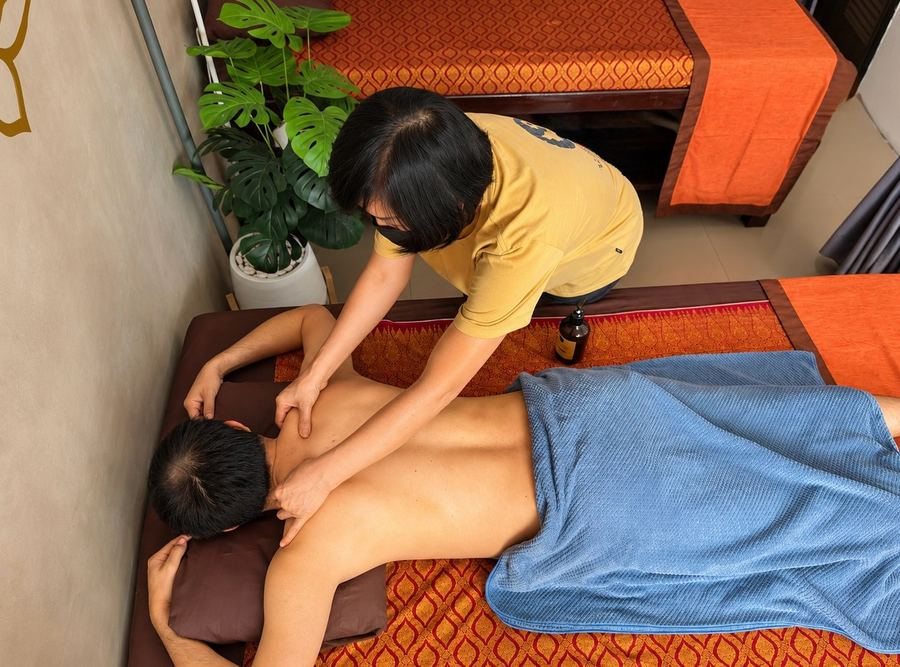
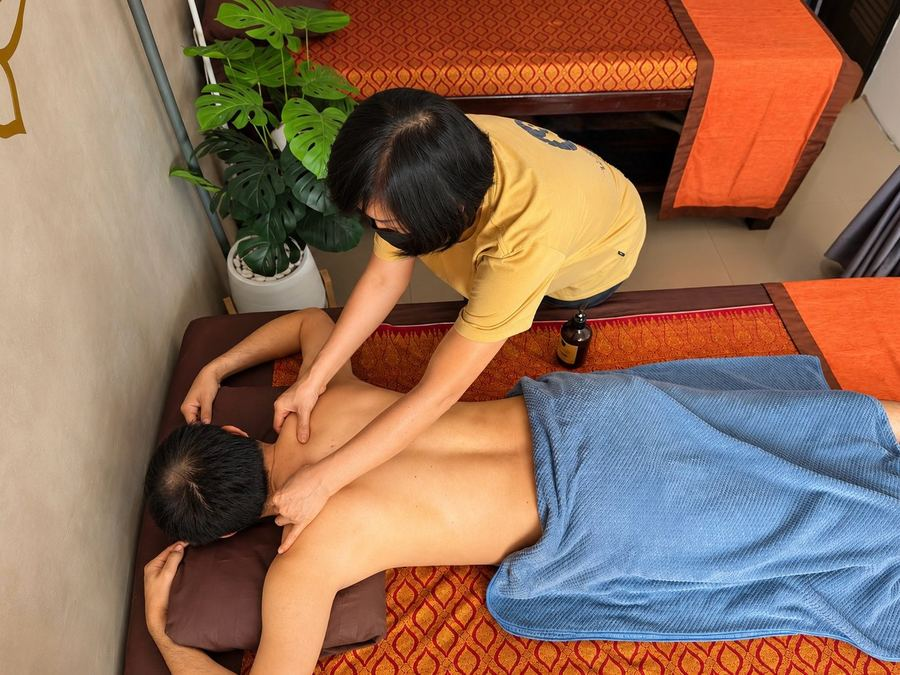
Deep tissue card: owner photo gallery; equal 4:3 photos
Add 3 owner photos to the deep tissue card and page (illustration
deleted). Crop these and the aromatherapy photos to exactly 4:3 so every
slide fills the frame at the same size.

diff --git a/index.html b/index.html
@@ -829,8 +829,15 @@ footer a{color:var(--brown)}
           </div>
         </article>
         <article class="item service-card" id="deep-tissue" aria-labelledby="deep-tissue-title">
-          <div class="service-visual">
-            <img src="img/services/deep-tissue.svg" alt="ภาพประกอบนวดเน้นเฉพาะจุด" width="720" height="440" loading="lazy" decoding="async">
+          <div class="service-visual service-gallery" data-service-gallery>
+            <div class="service-gallery-track" tabindex="0" role="region" aria-roledescription="carousel" aria-label="รูปนวดเน้นเฉพาะจุดที่ร้านนวลบุษยา ปัดหรือกดลูกศรเพื่อดูรูปถัดไป">
+              <figure class="service-gallery-slide" aria-label="รูปที่ 1 จาก 3"><img src="img/deep-tissue/deep-tissue-1.jpg" alt="หมอนวดกดจุดบริเวณสะบักและไหล่ให้ลูกค้าที่นอนคว่ำบนเบาะนวด" width="900" height="675" loading="lazy" decoding="async"></figure>
+              <figure class="service-gallery-slide" aria-label="รูปที่ 2 จาก 3"><img src="img/deep-tissue/deep-tissue-2.jpg" alt="หมอนวดกดจุดบริเวณหลังและเอวให้ลูกค้าที่นอนคว่ำห่มผ้าขนหนู" width="900" height="675" loading="lazy" decoding="async"></figure>
+              <figure class="service-gallery-slide" aria-label="รูปที่ 3 จาก 3"><img src="img/deep-tissue/deep-tissue-3.jpg" alt="หมอนวดกดจุดบริเวณบ่าให้ลูกค้าที่นอนคว่ำบนเตียงนวด" width="900" height="675" loading="lazy" decoding="async"></figure>
+            </div>
+            <button class="service-gallery-btn service-gallery-prev" type="button" aria-label="รูปก่อนหน้า" hidden><svg viewBox="0 0 24 24" aria-hidden="true" focusable="false" fill="none" stroke="currentColor" stroke-width="2"><path d="m15 6-6 6 6 6"/></svg></button>
+            <button class="service-gallery-btn service-gallery-next" type="button" aria-label="รูปถัดไป" hidden><svg viewBox="0 0 24 24" aria-hidden="true" focusable="false" fill="none" stroke="currentColor" stroke-width="2"><path d="m9 6 6 6-6 6"/></svg></button>
+            <span class="service-gallery-count" aria-hidden="true">1 / 3</span>
             <span class="service-number" aria-hidden="true">04</span>
           </div>
           <div class="service-content">
@@ -891,8 +898,8 @@ footer a{color:var(--brown)}
         <article class="item service-card" id="aromatherapy" aria-labelledby="aromatherapy-title">
           <div class="service-visual service-gallery" data-service-gallery>
             <div class="service-gallery-track" tabindex="0" role="region" aria-roledescription="carousel" aria-label="รูปนวดอโรม่าที่ร้านนวลบุษยา ปัดหรือกดลูกศรเพื่อดูรูปถัดไป">
-              <figure class="service-gallery-slide" aria-label="รูปที่ 1 จาก 3"><img src="img/aromatherapy/aromatherapy-1.jpg" alt="หมอนวดนวดบ่าและหลังด้วยน้ำมันอโรม่าให้ลูกค้าที่นอนคว่ำบนเบาะนวด" width="900" height="667" loading="lazy" decoding="async"></figure>
-              <figure class="service-gallery-slide" aria-label="รูปที่ 2 จาก 3"><img src="img/aromatherapy/aromatherapy-2.jpg" alt="หมอนวดนวดน่องด้วยน้ำมันอโรม่า ลูกค้านอนคว่ำห่มผ้าขนหนู" width="900" height="648" loading="lazy" decoding="async"></figure>
+              <figure class="service-gallery-slide" aria-label="รูปที่ 1 จาก 3"><img src="img/aromatherapy/aromatherapy-1.jpg" alt="หมอนวดนวดบ่าและหลังด้วยน้ำมันอโรม่าให้ลูกค้าที่นอนคว่ำบนเบาะนวด" width="900" height="675" loading="lazy" decoding="async"></figure>
+              <figure class="service-gallery-slide" aria-label="รูปที่ 2 จาก 3"><img src="img/aromatherapy/aromatherapy-2.jpg" alt="หมอนวดนวดน่องด้วยน้ำมันอโรม่า ลูกค้านอนคว่ำห่มผ้าขนหนู" width="900" height="675" loading="lazy" decoding="async"></figure>
               <figure class="service-gallery-slide" aria-label="รูปที่ 3 จาก 3"><img src="img/aromatherapy/aromatherapy-3.jpg" alt="หมอนวดกดน้ำมันอโรม่าใส่มือก่อนนวดหลังให้ลูกค้า" width="900" height="675" loading="lazy" decoding="async"></figure>
             </div>
             <button class="service-gallery-btn service-gallery-prev" type="button" aria-label="รูปก่อนหน้า" hidden><svg viewBox="0 0 24 24" aria-hidden="true" focusable="false" fill="none" stroke="currentColor" stroke-width="2"><path d="m15 6-6 6 6 6"/></svg></button>

diff --git a/aromatherapy/index.html b/aromatherapy/index.html
@@ -165,8 +165,8 @@ j=d.createElement(s),dl=l!='dataLayer'?'&l='+l:'';j.async=true;j.src=
     <div class="wrap">
       <div class="service-gallery page-gallery" data-service-gallery>
         <div class="service-gallery-track" tabindex="0" role="region" aria-roledescription="carousel" aria-label="รูปนวดอโรม่าที่ร้านนวลบุษยา ปัดหรือกดลูกศรเพื่อดูรูปถัดไป">
-        <figure class="service-gallery-slide" aria-label="รูปที่ 1 จาก 3"><img src="/img/aromatherapy/aromatherapy-1.jpg" alt="หมอนวดนวดบ่าและหลังด้วยน้ำมันอโรม่าให้ลูกค้าที่นอนคว่ำบนเบาะนวด" width="900" height="667" loading="lazy" decoding="async"></figure>
-        <figure class="service-gallery-slide" aria-label="รูปที่ 2 จาก 3"><img src="/img/aromatherapy/aromatherapy-2.jpg" alt="หมอนวดนวดน่องด้วยน้ำมันอโรม่า ลูกค้านอนคว่ำห่มผ้าขนหนู" width="900" height="648" loading="lazy" decoding="async"></figure>
+        <figure class="service-gallery-slide" aria-label="รูปที่ 1 จาก 3"><img src="/img/aromatherapy/aromatherapy-1.jpg" alt="หมอนวดนวดบ่าและหลังด้วยน้ำมันอโรม่าให้ลูกค้าที่นอนคว่ำบนเบาะนวด" width="900" height="675" loading="lazy" decoding="async"></figure>
+        <figure class="service-gallery-slide" aria-label="รูปที่ 2 จาก 3"><img src="/img/aromatherapy/aromatherapy-2.jpg" alt="หมอนวดนวดน่องด้วยน้ำมันอโรม่า ลูกค้านอนคว่ำห่มผ้าขนหนู" width="900" height="675" loading="lazy" decoding="async"></figure>
         <figure class="service-gallery-slide" aria-label="รูปที่ 3 จาก 3"><img src="/img/aromatherapy/aromatherapy-3.jpg" alt="หมอนวดกดน้ำมันอโรม่าใส่มือก่อนนวดหลังให้ลูกค้า" width="900" height="675" loading="lazy" decoding="async"></figure>
         </div>
         <button class="service-gallery-btn service-gallery-prev" type="button" aria-label="รูปก่อนหน้า" hidden><svg viewBox="0 0 24 24" aria-hidden="true" focusable="false" fill="none" stroke="currentColor" stroke-width="2"><path d="m15 6-6 6 6 6"/></svg></button>

diff --git a/deep-tissue/index.html b/deep-tissue/index.html
@@ -161,6 +161,21 @@ j=d.createElement(s),dl=l!='dataLayer'?'&l='+l:'';j.async=true;j.src=
         </div>
     </div>
   </section>
+  <section style="padding:8px 0 0" aria-label="รูปนวดเน้นเฉพาะจุดที่ร้าน">
+    <div class="wrap">
+      <div class="service-gallery page-gallery" data-service-gallery>
+        <div class="service-gallery-track" tabindex="0" role="region" aria-roledescription="carousel" aria-label="รูปนวดเน้นเฉพาะจุดที่ร้านนวลบุษยา ปัดหรือกดลูกศรเพื่อดูรูปถัดไป">
+        <figure class="service-gallery-slide" aria-label="รูปที่ 1 จาก 3"><img src="/img/deep-tissue/deep-tissue-1.jpg" alt="หมอนวดกดจุดบริเวณสะบักและไหล่ให้ลูกค้าที่นอนคว่ำบนเบาะนวด" width="900" height="675" loading="lazy" decoding="async"></figure>
+        <figure class="service-gallery-slide" aria-label="รูปที่ 2 จาก 3"><img src="/img/deep-tissue/deep-tissue-2.jpg" alt="หมอนวดกดจุดบริเวณหลังและเอวให้ลูกค้าที่นอนคว่ำห่มผ้าขนหนู" width="900" height="675" loading="lazy" decoding="async"></figure>
+        <figure class="service-gallery-slide" aria-label="รูปที่ 3 จาก 3"><img src="/img/deep-tissue/deep-tissue-3.jpg" alt="หมอนวดกดจุดบริเวณบ่าให้ลูกค้าที่นอนคว่ำบนเตียงนวด" width="900" height="675" loading="lazy" decoding="async"></figure>
+        </div>
+        <button class="service-gallery-btn service-gallery-prev" type="button" aria-label="รูปก่อนหน้า" hidden><svg viewBox="0 0 24 24" aria-hidden="true" focusable="false" fill="none" stroke="currentColor" stroke-width="2"><path d="m15 6-6 6 6 6"/></svg></button>
+        <button class="service-gallery-btn service-gallery-next" type="button" aria-label="รูปถัดไป" hidden><svg viewBox="0 0 24 24" aria-hidden="true" focusable="false" fill="none" stroke="currentColor" stroke-width="2"><path d="m9 6 6 6-6 6"/></svg></button>
+        <span class="service-gallery-count" aria-hidden="true">1 / 3</span>
+      </div>
+      <script src="/scripts/services.js" defer></script>
+    </div>
+  </section>
   <section style="padding-top:20px">
     <div class="wrap page-grid">
       <div class="panel">

diff --git a/tests/test_reviews.py b/tests/test_reviews.py
@@ -13,7 +13,7 @@ PROOF = json.loads((ROOT/'docs/reviews-verification.json').read_text(encoding='u
 DATA = json.loads((ROOT/'data/google-reviews.json').read_text(encoding='utf-8'))
 SECTION = re.search(r'  <section id="reviews".*?  </section>', HTML, re.S)[0]
 
-GALLERY_LABELS = {'thai-massage': 'นวดไทย', 'foot-massage': 'นวดเท้า', 'head-neck-shoulder': 'นวดศีรษะ คอ บ่า ไหล่', 'aromatherapy': 'นวดอโรม่า'}
+GALLERY_LABELS = {'thai-massage': 'นวดไทย', 'foot-massage': 'นวดเท้า', 'head-neck-shoulder': 'นวดศีรษะ คอ บ่า ไหล่', 'aromatherapy': 'นวดอโรม่า', 'deep-tissue': 'นวดเน้นเฉพาะจุด'}
 
 
 class ReviewsTests(unittest.TestCase):

diff --git a/tests/test_redesign.py b/tests/test_redesign.py
@@ -53,7 +53,7 @@ class RedesignTests(unittest.TestCase):
             elements = Elements(card).elements
             images = [a for t, a in elements if t == 'img']
             # One illustration per card; Thai, foot and head/neck/shoulder cards are owner photo galleries.
-            self.assertEqual(len(images), {'thai-massage': 3, 'foot-massage': 3, 'head-neck-shoulder': 2, 'aromatherapy': 3}.get(key, 1), key)
+            self.assertEqual(len(images), {'thai-massage': 3, 'foot-massage': 3, 'head-neck-shoulder': 2, 'aromatherapy': 3, 'deep-tissue': 3}.get(key, 1), key)
             for image in images:
                 self.assertTrue(image['alt'])
                 self.assertEqual(image['loading'], 'lazy')

diff --git a/tests/test_pages.py b/tests/test_pages.py
@@ -57,7 +57,7 @@ class PagesTests(unittest.TestCase):
             self.assertEqual([str(o['price']) for o in service['offers']], card_prices(s))
 
     def test_service_pages_reuse_homepage_photo_galleries(self):
-        galleries = {'thai-massage': 3, 'foot-massage': 3, 'head-neck-shoulder': 2, 'aromatherapy': 3}  # owner photos, 22 Nov 2026
+        galleries = {'thai-massage': 3, 'foot-massage': 3, 'head-neck-shoulder': 2, 'aromatherapy': 3, 'deep-tissue': 3}  # owner photos, 22 Nov 2026
         for slug in SERVICES:
             src = page(slug)
             if slug not in galleries:

diff --git a/HANDOFF.md b/HANDOFF.md
@@ -107,3 +107,4 @@ Validation completed before pushing: 15 Python checks; actual outcall script tes
 - The 4 remaining service illustrations had backgrounds/outlines/leaves recoloured to the blue palette (skin and props untouched).
 - Tests: `tests/redesign_norm.py` maps the redesign's deliberate markup changes back for the fixture snapshot tests; run tests with `discover -s tests` so that helper is importable.
 - Aromatherapy card got a 3-photo owner gallery (`img/aromatherapy/aromatherapy-1..3.jpg`) on 22 Nov 2026; its illustration `img/services/aromatherapy.svg` was deleted as unused.
+- Deep tissue (นวดเน้นเฉพาะจุด) card got a 3-photo owner gallery on 22 Nov 2026 (`img/deep-tissue/deep-tissue-1..3.jpg`); its illustration was deleted. Owner asked for equal-size photos, so these and the aromatherapy photos were cropped to exactly 4:3 (900x675) to fill the gallery frame with no bars, framed to keep heads and feet in view.
